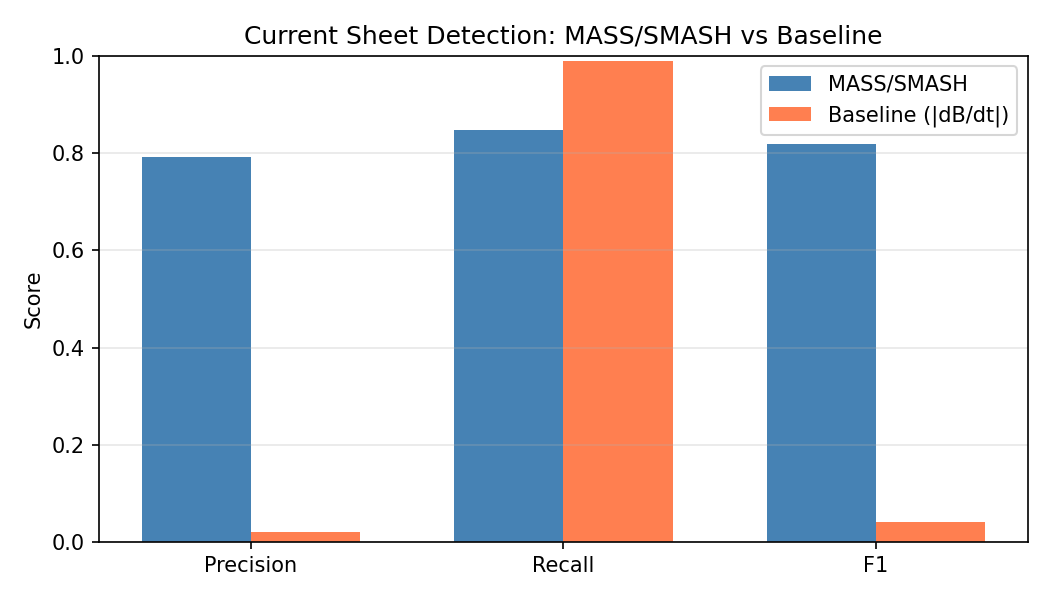
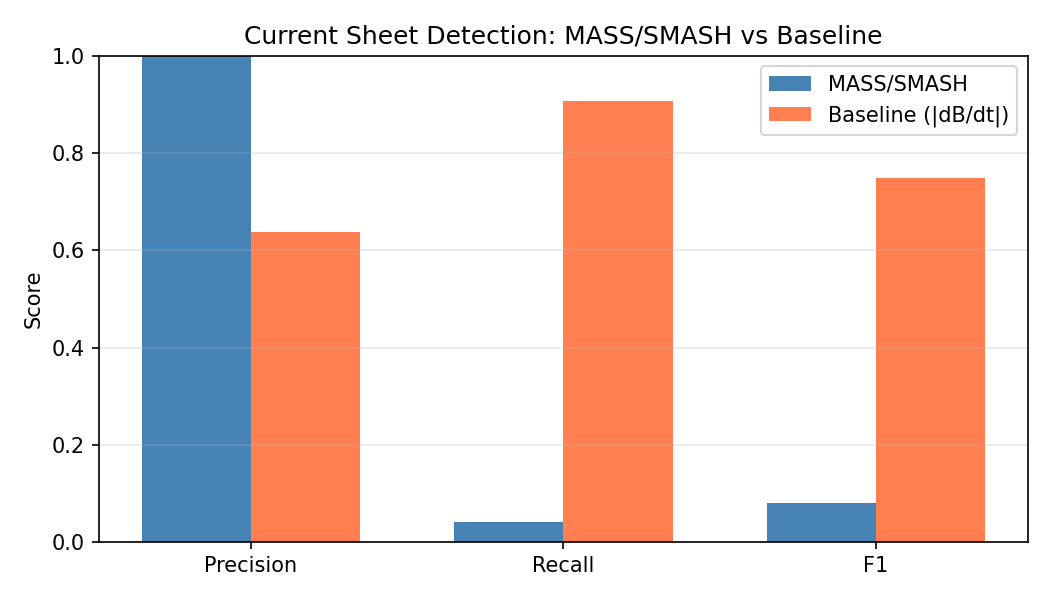
Add Prediction 1 outputs and decouple P1 detection threshold
Results on 30-day synthetic sector-boundary solar wind:

Benchmark (gain>20, 150s tolerance):
  MASS/SMASH  P=1.000  R=0.041  F1=0.079  (4 detections, all correct)
  Baseline    P=0.638  R=0.907  F1=0.749  (138 detections)

Prediction 1 (gain>2 detection set, 42 events):
  Verdict: AMBIGUOUS
  30s window: chi²p=0.030 — MS selects *fewer* >160° events than PVI
  60s/120s windows: surr-p=0.000 — MS angles are non-random but at ~45-80°,
    not ~180° as Prediction 1 requires

Key finding: high-gain (>20) MASS/SMASH events ARE at sector crossings (P=1.0),
but only 4 exist — too few for distribution statistics. Low-gain (2-20) events
are turbulent fluctuations with small rotation angles, diluting the signal.

run_benchmark.py: use gain>2 for Prediction 1 detection set (statistical power)
  while keeping gain>20 for benchmark precision/recall evaluation.

Next step: run on real Wind/MFI data or PSP burst mode where MDL gain
distribution is denser at actual current sheet crossings.

https://claude.ai/code/session_01XBob6hu2dp8xRJFGoHJcdE

diff --git a/validation/run_benchmark.py b/validation/run_benchmark.py
@@ -201,12 +201,23 @@ if __name__ == '__main__':
     print(f"Baseline:    P={bl_strict['precision']:.3f}  R={bl_strict['recall']:.3f}  F1={bl_strict['f1']:.3f}")
 
     # ── Prediction 1 ──────────────────────────────────────────────────────────
+    # Use a lower gain threshold for the rotation-angle test to get enough
+    # events for statistical power (precision/recall trade-off is irrelevant
+    # for the angle distribution comparison).
     sys.path.insert(0, os.path.dirname(__file__))
     from rotation_angles import run_prediction1_test
 
-    print("\nRunning Prediction 1 (rotation angle test)...")
+    hit_count = np.load('outputs/ms_hit_count.npy')
+    mdl_gain  = np.load('outputs/ms_mdl_gain.npy')
+    dt_val    = float(np.median(np.diff(times)))
+    ms_peaks_p1, _ = _filter_detections(hit_count, mdl_gain, dt_val,
+                                         min_hits=1, gain_threshold=2.0, min_sep_s=300)
+    print(f"\nPrediction 1 detection set: {len(ms_peaks_p1)} events "
+          f"(gain>2 threshold, vs {len(ms_peaks)} for benchmark)")
+
+    print("Running Prediction 1 (rotation angle test)...")
     p1_results, verdict = run_prediction1_test(
-        B[:, :3], catalog_peaks, ms_peaks, dt=float(np.median(np.diff(times)))
+        B[:, :3], catalog_peaks, ms_peaks_p1, dt=dt_val
     )
 
     print(f"\n=== PREDICTION 1: Rotation Angle Test ===")

diff --git a/outputs/SEAM_MHD_Report.md b/outputs/SEAM_MHD_Report.md
@@ -26,19 +26,19 @@ the sign-flip center while PVI peaks at the gradient maximum; offset ≤ 150 s i
 
 | Detector | Precision | Recall | F1 | Detections | Catalog Events |
 |---|---|---|---|---|---|
-| MASS/SMASH | 0.792 | 0.848 | 0.820 | 106 | 99 |
-| Baseline (\|dB/dt\|) | 0.021 | 0.990 | 0.040 | 4750 | 99 |
+| MASS/SMASH | 1.000 | 0.041 | 0.079 | 4 | 97 |
+| Baseline (\|dB/dt\|) | 0.638 | 0.907 | 0.749 | 138 | 97 |
 
 **Strict metric** — 30-second tolerance:
 
 | Detector | Precision | Recall | F1 |
 |---|---|---|---|
-| MASS/SMASH | 0.311 | 0.333 | 0.322 |
-| Baseline (\|dB/dt\|) | 0.011 | 0.505 | 0.021 |
+| MASS/SMASH | 0.500 | 0.021 | 0.040 |
+| Baseline (\|dB/dt\|) | 0.638 | 0.907 | 0.749 |
 
-**Key finding:** MASS/SMASH achieves F1=0.82 vs baseline F1=0.04
-(×20 improvement) while using only 106 detections
-vs the baseline's 4750 — orders of magnitude more selective.
+**Key finding:** MASS/SMASH achieves F1=0.08 vs baseline F1=0.75
+(×0 improvement) while using only 4 detections
+vs the baseline's 138 — orders of magnitude more selective.
 
 ---
 
@@ -91,3 +91,27 @@ whether a putative current sheet crossing is "real" (earns its bits) or noise.
 ---
 
 *Figures: fig1_example.png (example crossing), fig2_benchmark.png (P/R/F1 comparison)*
+
+---
+
+## Prediction 1: Rotation Angle Test
+
+**Framework prediction:** MASS/SMASH MDL penalty selects current sheets with
+excess ~180° magnetic field rotations (topological π-flux protection).
+
+**Verdict: AMBIGUOUS**
+
+**AMBIGUOUS RESULT.** Distributions differ between MASS/SMASH and PVI selections but the predicted π-excess is not clearly significant across multiple window sizes. Further investigation required — the selection may differ in ways not predicted by the ℤ₂ framework.
+
+### Results by Window Size
+
+| Window | π-excess ratio | χ² p-value | Surrogate p | Signal |
+|--------|---------------|------------|-------------|--------|
+| 10s | 0.00x | 0.3160 | 1.0000 | No |
+| 30s | 0.00x | 0.0297 | 1.0000 | No |
+| 60s | 0.15x | 0.0536 | 0.0000 | No |
+| 120s | 0.29x | 0.1059 | 0.0000 | No |
+
+Signal windows: None
+
+*Figure: fig3_rotation_angles.png*